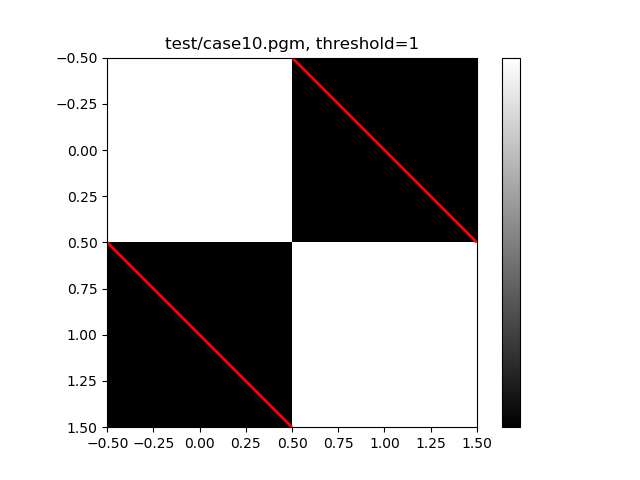
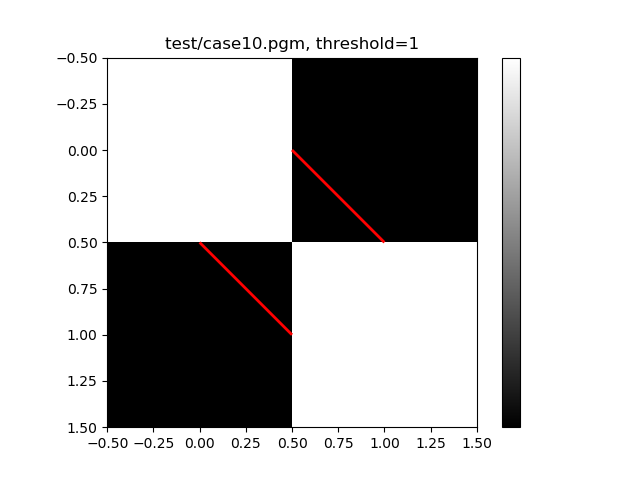
Fixed case 11.

diff --git a/ProgramFive/fig_mri_contour.py b/ProgramFive/fig_mri_contour.py
@@ -103,7 +103,7 @@ lookup_table = {
     '1000': [(0, 0.5), (0.5, 0)],
     '1001': [(0.5, 1.0), (0.5, 0)],
     '1010': [(0, 0.5), (0.5, 1.0), (0.5, 0), (1.0, 0.5)],
-    '1011': [(0, 1), (1.5, -0.5)],
+    '1011': [(0.5, 0), (1.0, 0.5)],
     '1100': [(-.5, -0.5), (1.5, -0.5)],
     '1101': [(0.5, -1.5), (1.5, -0.5)],
     '1110': [(-1, 0), (0.5, -1.5)],
